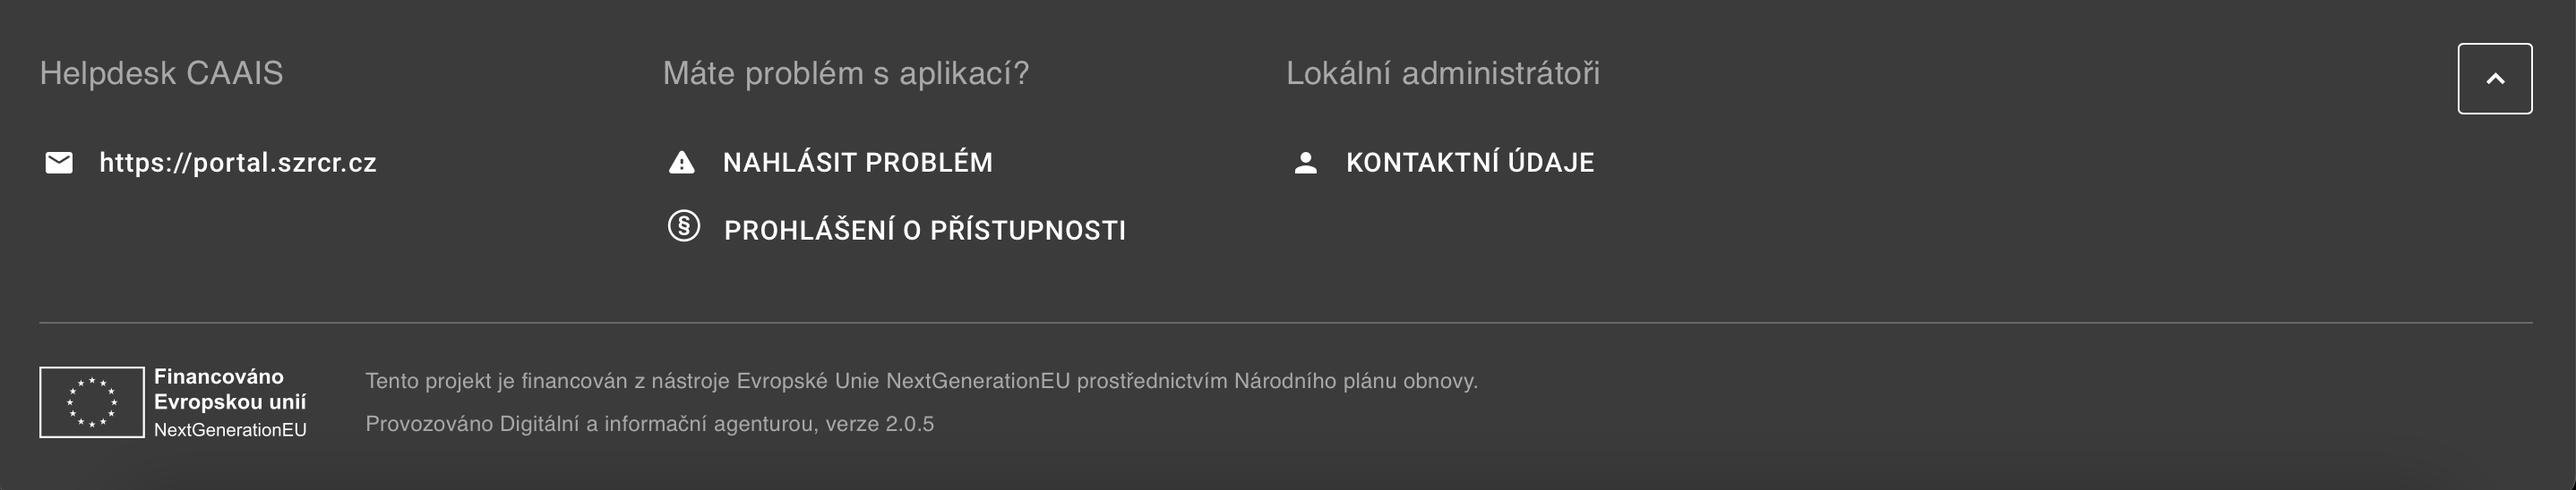
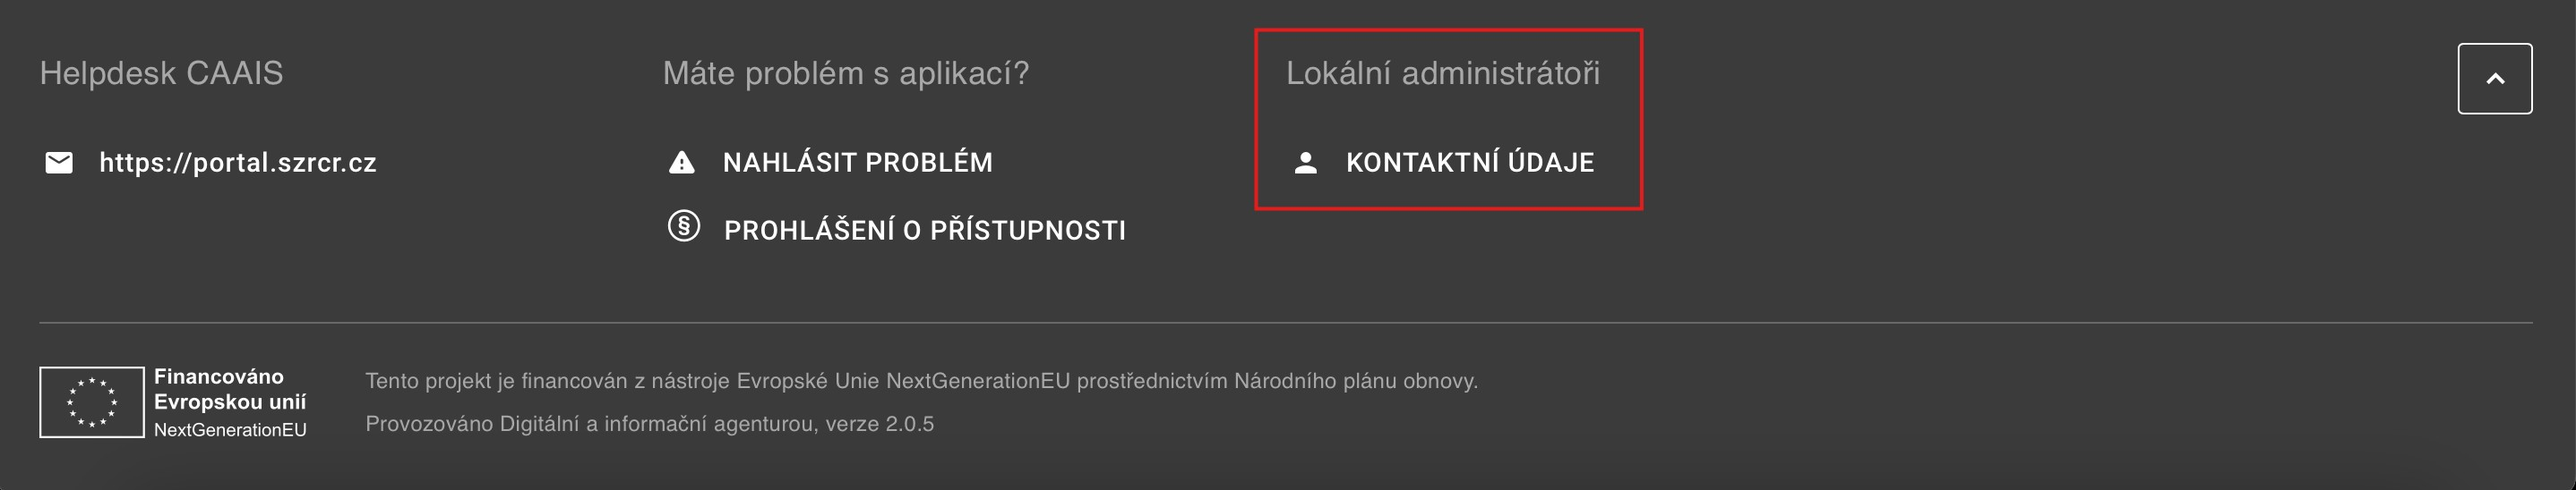
WU 3.1

Changed region(s): [[0.4642, 0.031, 0.6499, 0.0931], [0.4642, 0.4033, 0.6499, 0.4343]]

diff --git a/source/uzivatel/index.rst b/source/uzivatel/index.rst
@@ -13,12 +13,52 @@ Vzhledem k tomu, že CAAIS postupně nahrazuje původní systém JIP/KAAS, je po
 Založení účtu a první přihlášení
 ================================
 
+.. dropdown:: Chci účet v CAAIS
+   :open:
+
+   O zřízení účtu v CAAIS požádejte vašeho :ref:`lokálního administrátora <bu_prirucka_LA>`. Ten vám založí účet a přidělí potřebné role pro přístup k agendovým informačním systémům. Po založení účtu vám bude zaslán :ref:`e-mail s pokyny pro aktivaci <bu_prirucka_LA_zalozeni>` vašeho profilu v CAAIS.
+
+   .. admonition:: Upozornění
+      :class: warning
+      
+      **Pokud jste žádný email neobdrželi, pravděpodobně nemáte profil v CAAIS, ani účet v CAAIS IdP.**
+
+   .. grid:: 1
+
+      .. grid-item-card:: :ref:`Nemám profil v CAAIS, ani účet v CAAIS IdP“ <nemam_ucet>`
+         :text-align: center
+
+.. _bu_prirucka_LA:
+
+Kdo je lokálním administrátorem?
+--------------------------------
+
+Jak zjistím, kdo je můj lokální administrátor? Ve většině případů je to váš **administrátor JIP / KAAS**, případně osoba zodpovědná za IT oddělení vašeho úřadu.
+
 .. admonition:: Poznámka
    :class: note
    
-   **O založení vašeho uživatelského účtu se již postaral lokální administrátor.** Abyste mohli CAAIS používat pro přihlašování do agendových informačních systémů, je potřeba účet ještě aktivovat. Nejedná se o nic složitého.
+   Pokud již účet v CAAIS máte, po přihlášení najdete kontakt na lokálního administrátora v patičce stránky po rozkliknutí textu **KONTAKTNÍ ÚDAJE**.
+
+   .. figure:: ../images/data-image-3.jpg
+      :alt: Kdo je lokálním administrátorem?
+      :width: 1000px
+
+.. _bu_prirucka_LA_zalozeni:
+
+Založení profilu v CAAIS a aktivace účtu
+----------------------------------------
 
 Jakmile vám :ref:`lokální administrátor <bu_prirucka_LA>` založí účet, budete o tom informováni prostřednictvím e-mailové zprávy s předmnětem **„Byl vám založen profil v CAAIS“** (a je potřeba se doztotožnit), případně s předmětem **„Byl vám založen nový účet v CAAIS IdP“** (pro již ztotožněné uživatele). Tento email obsahuje postup, podle kterého je potřeba provést první přihlášení a aktivaci vašeho uživatelského účtu.
+
+.. admonition:: Upozornění
+   :class: warning
+
+   **Tento email mohl skončit v neprioritní složce vašeho e-mailového klienta, případně ve složce spam. Než kontaktujete vašeho lokálního administrátora, s tím že vám email nepřišel, zkuste dohledat adresáta: noreply@caais.gov.cz**
+
+   **POZOR na phishing!** Legitimní email z CAAIS bude vždy odeslán z adresy **gov.cz**.
+
+   Platnost odkazů v emailech je omezena (platnost je 30 dní). Pokud vám email s pokyny pro aktivaci účtu nepřišel, nebo odkazy v něm obsažené již nejsou platné, kontaktujte svého :ref:`lokálního administrátora <bu_prirucka_LA>`.
 
 .. grid:: 1
 
@@ -29,29 +69,6 @@ Jakmile vám :ref:`lokální administrátor <bu_prirucka_LA>` založí účet, b
 
    .. grid-item-card:: :ref:`Přišel mi email Byl vám založen nový účet v CAAIS IdP“ <email_CAAIS_IdP>`
       :text-align: center
-
-.. admonition:: Upozornění
-   :class: warning
-   
-   **Pokud jste žádný email neobdrželi, pravděpodobně nemáte profil v CAAIS, ani účet v CAAIS IdP.**
-
-.. grid:: 1
-
-   .. grid-item-card:: :ref:`Nemám profil v CAAIS, ani účet v CAAIS IdP“ <nemam_ucet>`
-      :text-align: center
-
-.. _bu_prirucka_LA:
-
-Kdo je lokálním administrátorem?
---------------------------------
-
-Jak zjistím, kdo je můj :ref:`lokální administrátor <la_prirucka>`? Po přihlášení najdete kontakt v patičce stránky ve sloupci lokální administrátoři po rozkliknutí textu KONTAKTNÍ ÚDAJE.
-
-.. figure:: ../images/data-image-3.jpg
-    :alt: Kdo je lokálním administrátorem?
-    :width: 1000px
-
-Jaké informace mu předat.
 
 Přihlášení, odhlášení a zapomenuté údaje v CAAIS
 ================================================

diff --git a/source/index.rst b/source/index.rst
@@ -26,6 +26,11 @@ Onboarding uživatelů do systému CAAIS
 
 Zavedení do systému CAAIS je jednoduché. Prvním krokem je, aby :ref:`statutární zástupce <sz_prirucka>` zajistil zřízení přístupu :ref:`lokálního administrátora <la_prirucka>`. Lokální administrátor následně zakládá :ref:`běžné uživatelské účty <bu_prirucka>` a přiděluje jim odpovídající role a oprávnění.
 
+.. grid:: 1
+
+   .. grid-item-card:: :ref:`Chci provést rychlý onboarding <onboarding>`
+      :text-align: center
+
 Pro snadný přechod na CAAIS je k dispozici tato uživatelská příručka, která vás celým procesem provede.
 
 První přihlášení do CAAIS
